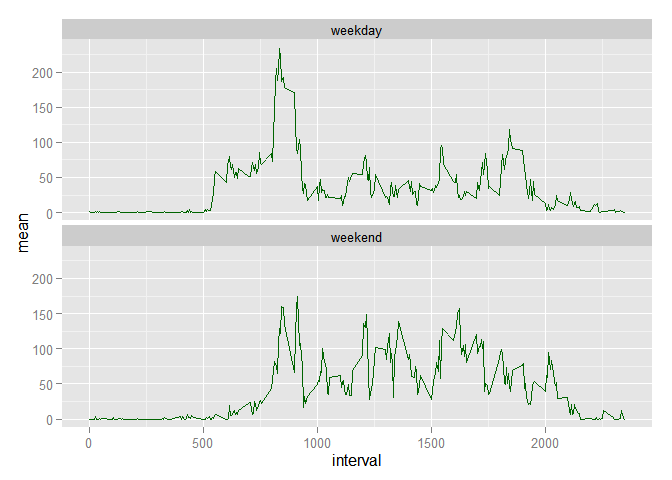
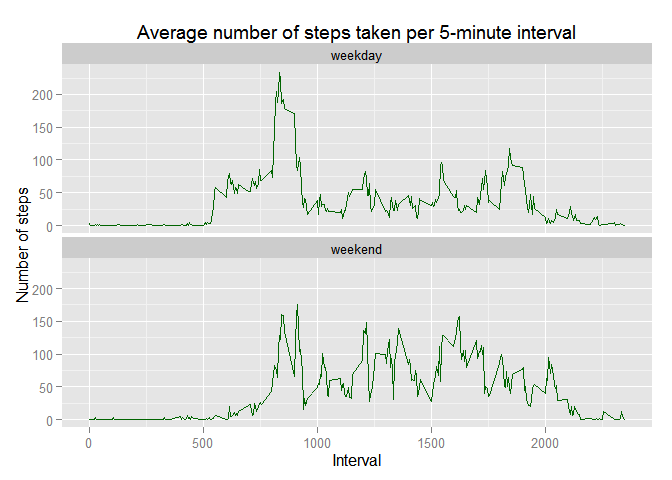
AMC 2

diff --git a/PA1_template.html b/PA1_template.html
@@ -147,10 +147,12 @@ spd</code></pre>
 <div id="make-a-time-series-plot-i.e.type-l-of-the-5-minute-interval-xaxis-and-the-average-number-of-steps-taken-averaged-across-all-days-yaxis" class="section level3">
 <h3>1. Make a time series plot (i.e. type = “l” ) of the 5-minute interval (xaxis) and the average number of steps taken, averaged across all days (yaxis)</h3>
 <pre class="r"><code>avnust &lt;- na.omit(data) %&gt;% group_by(interval) %&gt;% summarise(mean = mean(steps))
-plot(avnust$interval,avnust$mean,type =&quot;l&quot;,main=&quot;Average number of steps taken per 5-minute interval&quot;,xlab=&quot;Interval&quot;,ylab=&quot;Number of steps&quot;)</code></pre>
[1 lines of base64/hex data omitted]
-<pre class="r"><code>ggplot(avnust, aes(interval,mean))+geom_line(color=&quot;darkgreen&quot;)</code></pre>
[1 lines of base64/hex data omitted]
+#plot(avnust$interval,avnust$mean,type =&quot;l&quot;,main=&quot;Average number of steps taken per 5-minute interval&quot;,xlab=&quot;Interval&quot;,ylab=&quot;Number of steps&quot;)
+ggplot(avnust, aes(interval,mean))+geom_line(color=&quot;darkgreen&quot;) +
+    ggtitle(&quot;Average number of steps taken per 5-minute interval&quot;) +
+    xlab(&quot;Interval&quot;) +
+    ylab(&quot;Number of steps&quot;)</code></pre>
[1 lines of base64/hex data omitted]
 </div>
 <div id="which-5-minute-interval-on-average-across-all-the-days-in-the-dataset-contains-the-maximum-number-of-steps" class="section level3">
 <h3>2. Which 5-minute interval, on average across all the days in the dataset, contains the maximum number of steps?</h3>
@@ -254,8 +256,11 @@ data2[wday %in% c(2:6),type:=&quot;weekday&quot;]</code></pre>
 #p &lt;- group_by(data2,type,interval) %&gt;% summarise(type,interval) 
 avnust &lt;- group_by(data2,type,interval) %&gt;% summarise(mean = mean(steps))
 ggplot(avnust, aes(interval,mean))+geom_line(color=&quot;darkgreen&quot;)+
-    facet_wrap(~type, ncol=1)</code></pre>
[1 lines of base64/hex data omitted]
+    facet_wrap(~type, ncol=1) +
+    ggtitle(&quot;Average number of steps taken per 5-minute interval&quot;) +
+    xlab(&quot;Interval&quot;) +
+    ylab(&quot;Number of steps&quot;)</code></pre>
[1 lines of base64/hex data omitted]
 </div>
 </div>
 

diff --git a/PA1_template.md b/PA1_template.md
@@ -117,16 +117,14 @@ The median of the total number of steps taken per day is **10765**.
 
 ```r
 avnust <- na.omit(data) %>% group_by(interval) %>% summarise(mean = mean(steps))
-plot(avnust$interval,avnust$mean,type ="l",main="Average number of steps taken per 5-minute interval",xlab="Interval",ylab="Number of steps")
+#plot(avnust$interval,avnust$mean,type ="l",main="Average number of steps taken per 5-minute interval",xlab="Interval",ylab="Number of steps")
+ggplot(avnust, aes(interval,mean))+geom_line(color="darkgreen") +
+    ggtitle("Average number of steps taken per 5-minute interval") +
+    xlab("Interval") +
+    ylab("Number of steps")
 ```
 
 ![](PA1_template_files/figure-html/unnamed-chunk-6-1.png) 
-
-```r
-ggplot(avnust, aes(interval,mean))+geom_line(color="darkgreen")
-```
-
-![](PA1_template_files/figure-html/unnamed-chunk-6-2.png) 
 
 ###2. Which 5-minute interval, on average across all the days in the dataset, contains the maximum number of steps?
 
@@ -267,7 +265,10 @@ data2[wday %in% c(1,7),type:="weekend"]
 #p <- group_by(data2,type,interval) %>% summarise(type,interval) 
 avnust <- group_by(data2,type,interval) %>% summarise(mean = mean(steps))
 ggplot(avnust, aes(interval,mean))+geom_line(color="darkgreen")+
-    facet_wrap(~type, ncol=1)
+    facet_wrap(~type, ncol=1) +
+    ggtitle("Average number of steps taken per 5-minute interval") +
+    xlab("Interval") +
+    ylab("Number of steps")
 ```
 
 ![](PA1_template_files/figure-html/unnamed-chunk-13-1.png) 
